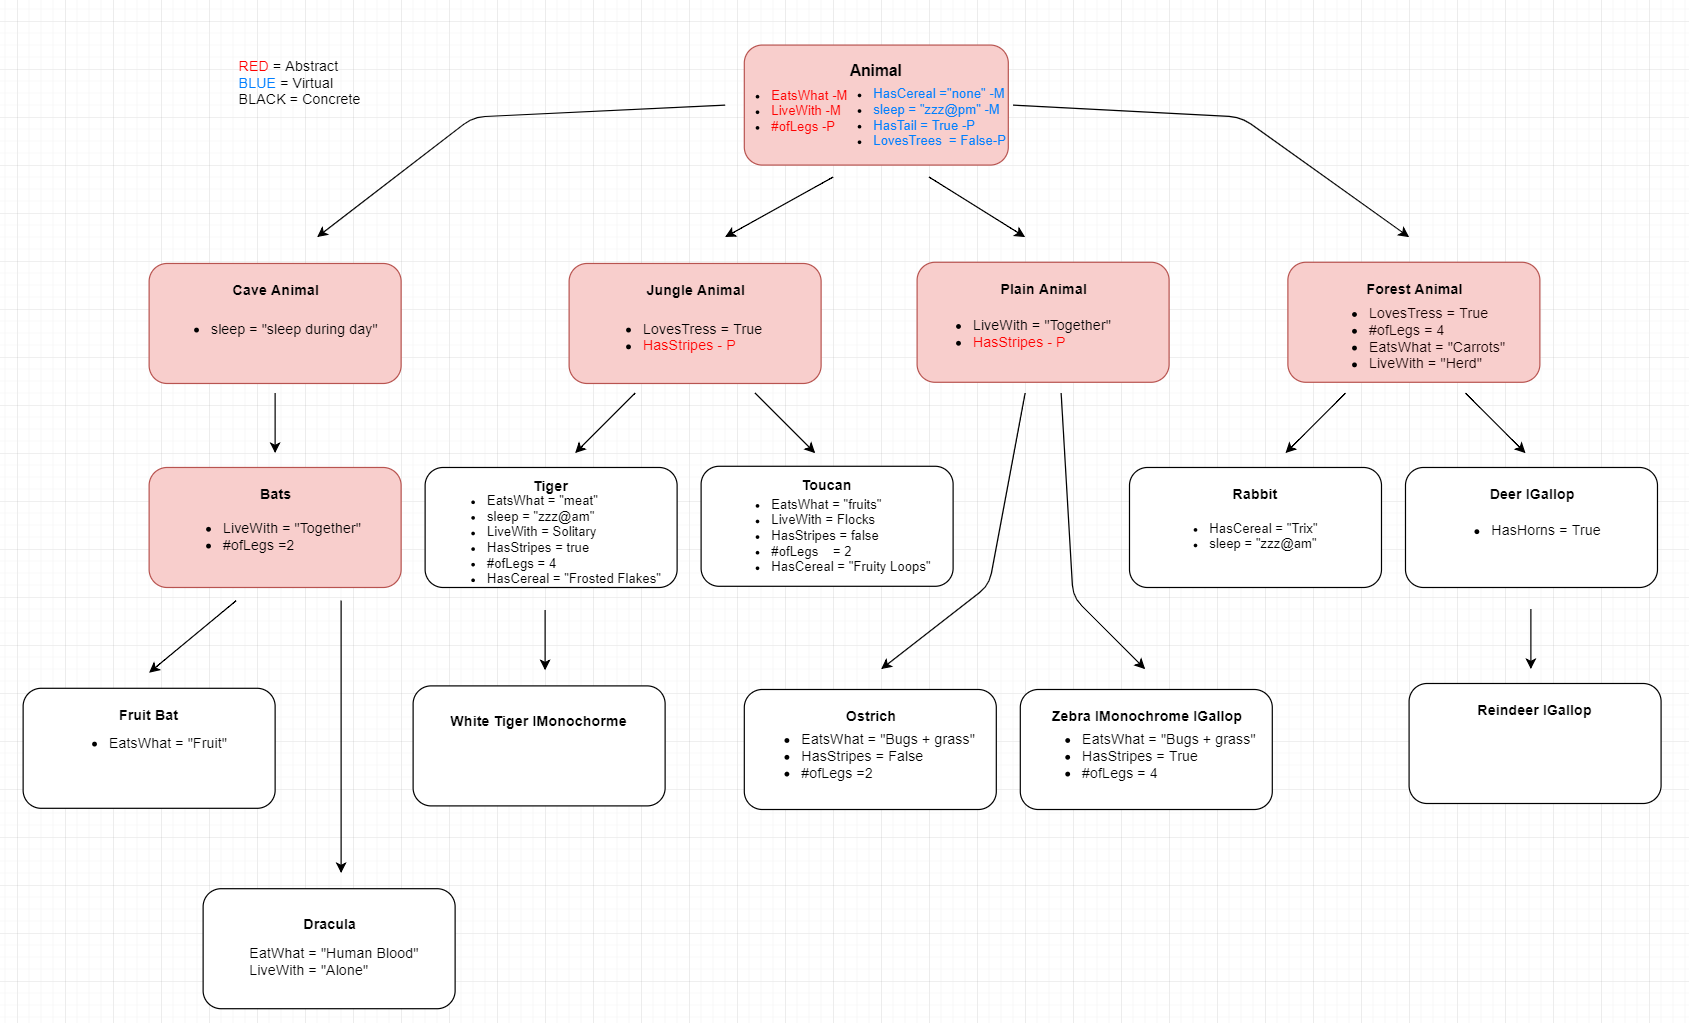
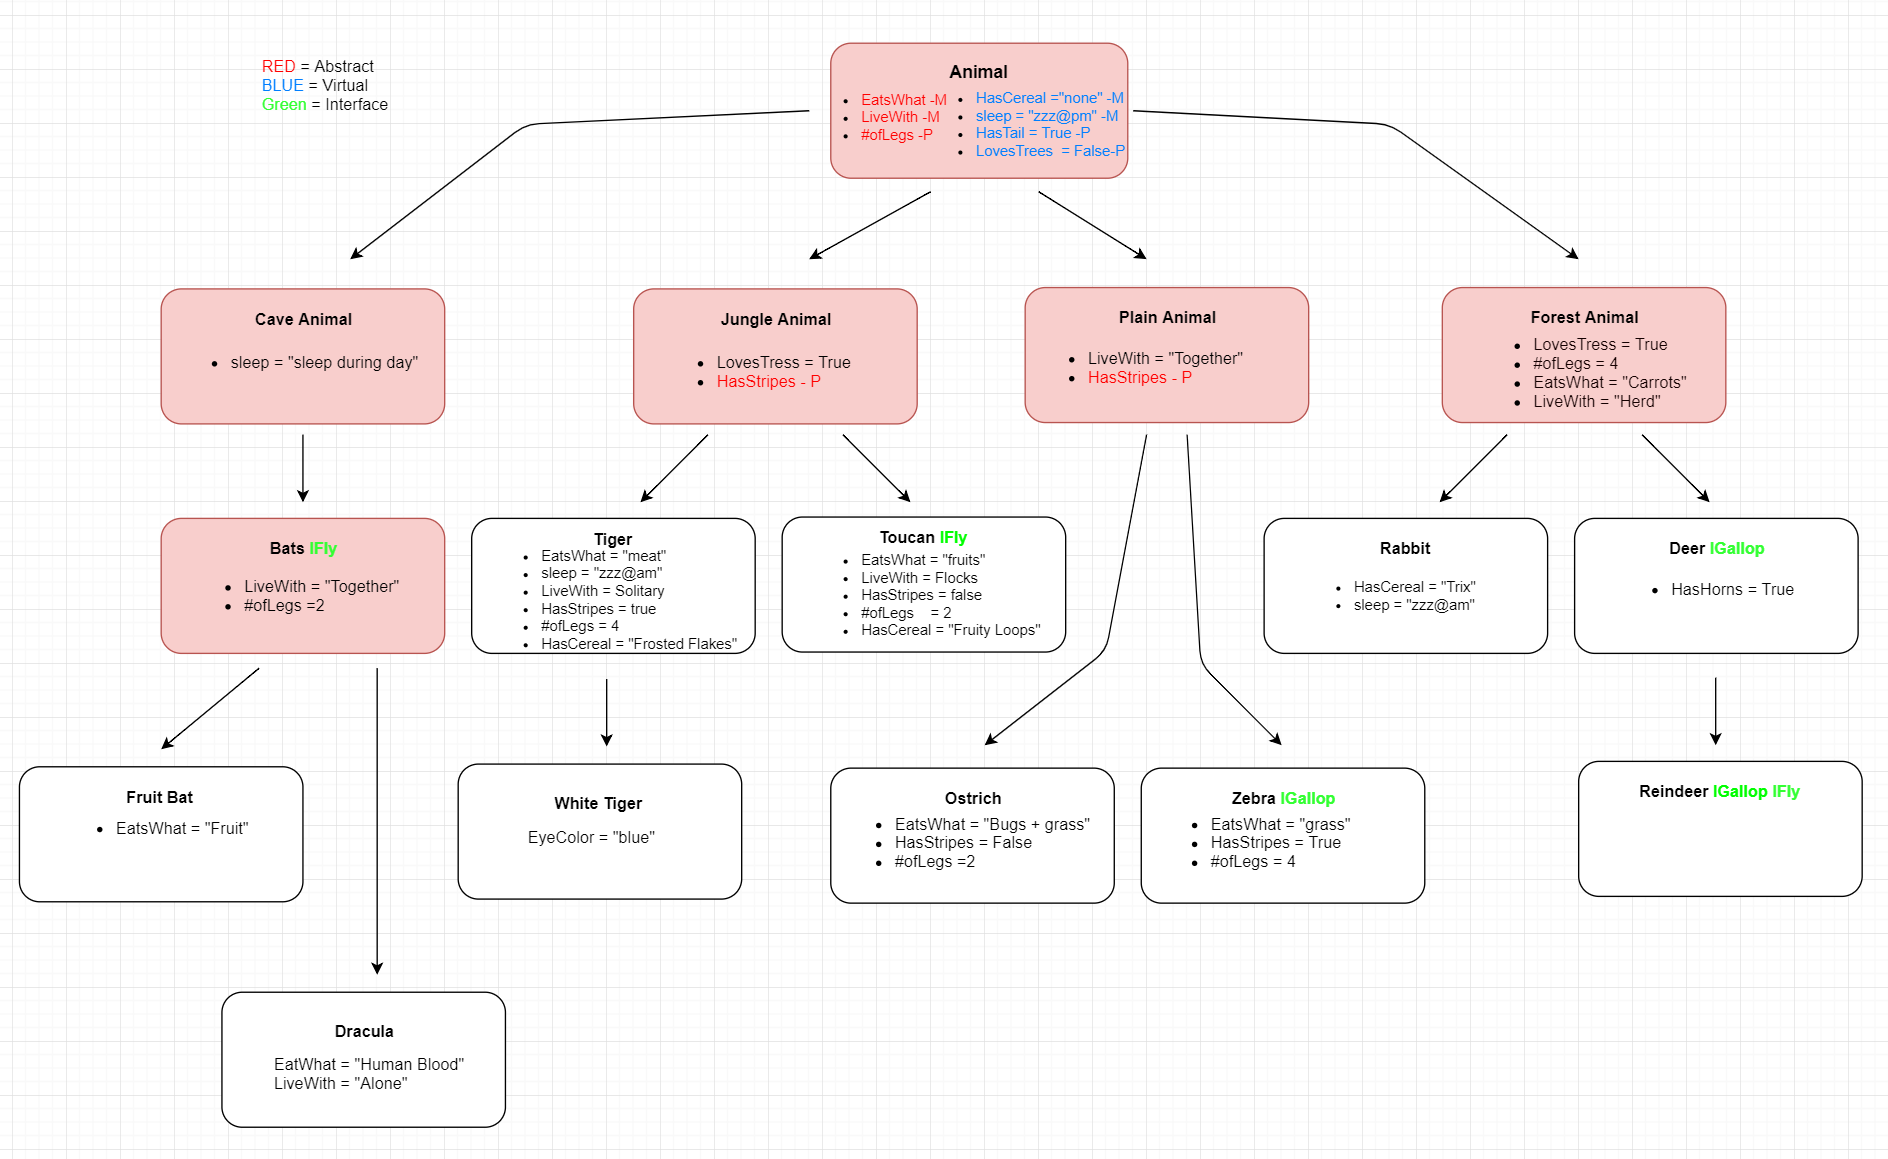
new image added. imonochrome was taken out, made comments to most

diff --git a/Zoo_OOP/Lab05_Zoo_OOP/Classes/Bats.cs b/Zoo_OOP/Lab05_Zoo_OOP/Classes/Bats.cs
@@ -6,15 +6,19 @@ namespace Lab05_Zoo_OOP.Classes
 {
     public abstract class Bats : CaveAnimal, IFly
     {
+        //Overrides an abstract property
         public override int NumOfLegs { get; set; } = 2;
 
+        //Property implemented from IFly interface
         public bool DoIHasWing { get; set; } = true;
 
+        //Method implemented from interface
         public string HowIFly()
         {
             return "In The darkness";
         }
-
+        
+        //Abstract method overridden
         public override string LiveWith()
         {
             return "Colony";

diff --git a/Zoo_OOP/Lab05_Zoo_OOP/Classes/ForestAnimal.cs b/Zoo_OOP/Lab05_Zoo_OOP/Classes/ForestAnimal.cs
@@ -6,15 +6,19 @@ namespace Lab05_Zoo_OOP.Classes
 {
     public abstract class ForestAnimal : Animal
     {
+        // overrode the virtual prop
         public override bool LovesTrees { get; set; } = true;
 
+        // overide the abstract prop
         public override int NumOfLegs { get; set; } = 4;
 
+        // overide the abstract method
         public override string EatsWhat()
         {
             return "Carrots";
         }
 
+        // overide the abstract method
         public override string LiveWith()
         {
             return "Herd";

diff --git a/Zoo_OOP/Lab05_Zoo_OOP/Classes/Deer.cs b/Zoo_OOP/Lab05_Zoo_OOP/Classes/Deer.cs
@@ -7,11 +7,14 @@ namespace Lab05_Zoo_OOP.Classes
 {
     public class Deer : ForestAnimal, IGallop
     {
+        //Assigns a new property
         public bool HasHorns { get; set; } = true;
 
+        //Inteface prop
         public bool FasterThanWalking { get; set; } = true;
+        //Interface prop
         public bool MoreMagesticThanRunning { get; set; } = true;
-
+        //Interface method
         public string WalkOrRun()
         {
             return "Gallop Gallop";

diff --git a/Zoo_OOP/Lab05_Zoo_OOP/Classes/Ostrich.cs b/Zoo_OOP/Lab05_Zoo_OOP/Classes/Ostrich.cs
@@ -6,9 +6,12 @@ namespace Lab05_Zoo_OOP.Classes
 {
     public class Ostrich : PlainAnimal
     {
+        // overide the abstract prop
         public override bool HasStripes { get; set; } = false;
+        // overide the abstract prop
         public override int NumOfLegs { get; set; } = 2;
 
+        // overide the abstract method
         public override string EatsWhat()
         {
             return "Bugs and Grass";

diff --git a/Zoo_OOP/Lab05_Zoo_OOP/Classes/Animal.cs b/Zoo_OOP/Lab05_Zoo_OOP/Classes/Animal.cs
@@ -6,8 +6,10 @@ namespace Lab05_Zoo_OOP.Classes
 {
     public abstract class Animal
     {
+        //abstract method must be overridden before the first concrete class
         public abstract int NumOfLegs { get; set; }
 
+        //virtual class, CAN be overridden
         public virtual bool HasTail { get; set; } = true;
 
         public virtual bool LovesTrees { get; set; } = false;

diff --git a/Zoo_OOP/Lab05_Zoo_OOP/Classes/Dracula.cs b/Zoo_OOP/Lab05_Zoo_OOP/Classes/Dracula.cs
@@ -6,11 +6,13 @@ namespace Lab05_Zoo_OOP.Classes
 {
     public class Dracula : Bats
     {
+        //overides the abstract method
         public override string EatsWhat()
         {
             return "Human Blood";
         }
 
+        //overirdes abtract method that was previously defined
         public override string LiveWith()
         {
             return "Alone";

diff --git a/Zoo_OOP/Lab05_Zoo_OOP/Classes/JungleAnimal.cs b/Zoo_OOP/Lab05_Zoo_OOP/Classes/JungleAnimal.cs
@@ -6,8 +6,10 @@ namespace Lab05_Zoo_OOP.Classes
 {
     public abstract class JungleAnimal : Animal
     {
+        // overide the virtual prop
         public override bool LovesTrees { get; set; } = true;
 
+        //new abstract prop
         abstract public bool HasStripes { get; set; }
     }
 }

diff --git a/Zoo_OOP/Lab05_Zoo_OOP/Classes/Zebra.cs b/Zoo_OOP/Lab05_Zoo_OOP/Classes/Zebra.cs
@@ -5,7 +5,7 @@ using System.Text;
 
 namespace Lab05_Zoo_OOP.Classes
 {
-    public class Zebra : PlainAnimal, IGallop, IMonochrome
+    public class Zebra : PlainAnimal, IGallop
     {
         public override bool HasStripes { get; set; } = true;
 

diff --git a/Zoo_OOP/Lab05_Zoo_OOP/Classes/CaveAnimal.cs b/Zoo_OOP/Lab05_Zoo_OOP/Classes/CaveAnimal.cs
@@ -6,6 +6,7 @@ namespace Lab05_Zoo_OOP.Classes
 {
     public abstract class CaveAnimal : Animal
     {
+        //Overrode the SleepAt virtual method. 
         public override string SleepAt()
         {
             return "AM";

diff --git a/Zoo_OOP/Lab05_Zoo_OOP/Classes/WhiteTiger.cs b/Zoo_OOP/Lab05_Zoo_OOP/Classes/WhiteTiger.cs
@@ -5,7 +5,7 @@ using System.Text;
 
 namespace Lab05_Zoo_OOP.Classes
 {
-    public class WhiteTiger : Tiger, IMonochrome
+    public class WhiteTiger : Tiger
     {
         public string EyeColor { get; set; } = "Blue";
 

diff --git a/Zoo_OOP/Lab05_Zoo_OOP/Classes/FruitBat.cs b/Zoo_OOP/Lab05_Zoo_OOP/Classes/FruitBat.cs
@@ -6,6 +6,7 @@ namespace Lab05_Zoo_OOP.Classes
 {
     public class FruitBat : Bats
     {
+        // overide the abstract method
         public override string EatsWhat()
         {
             return "Fruits";
